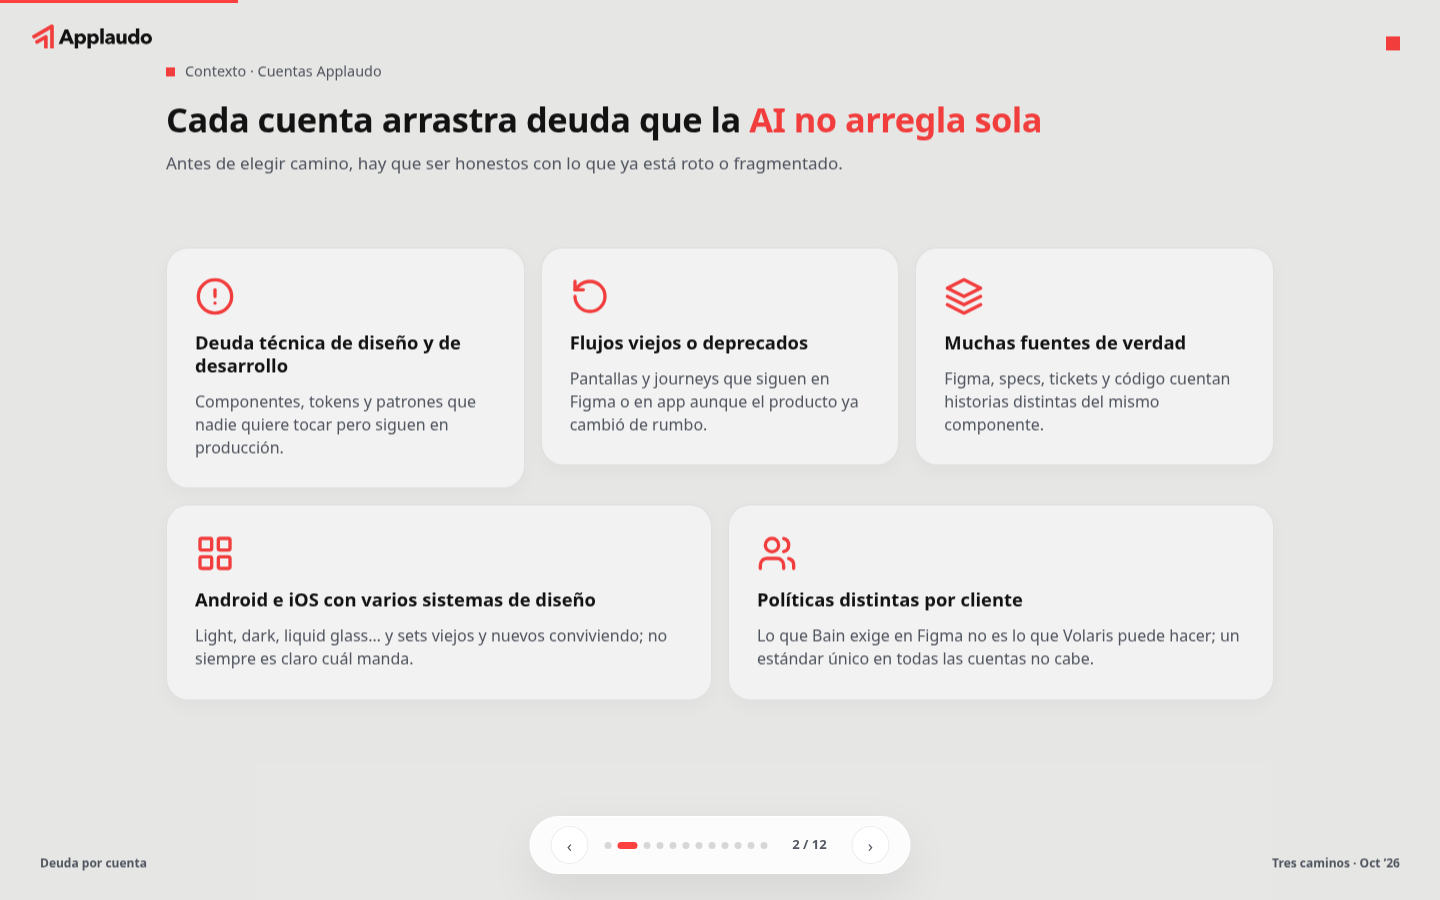
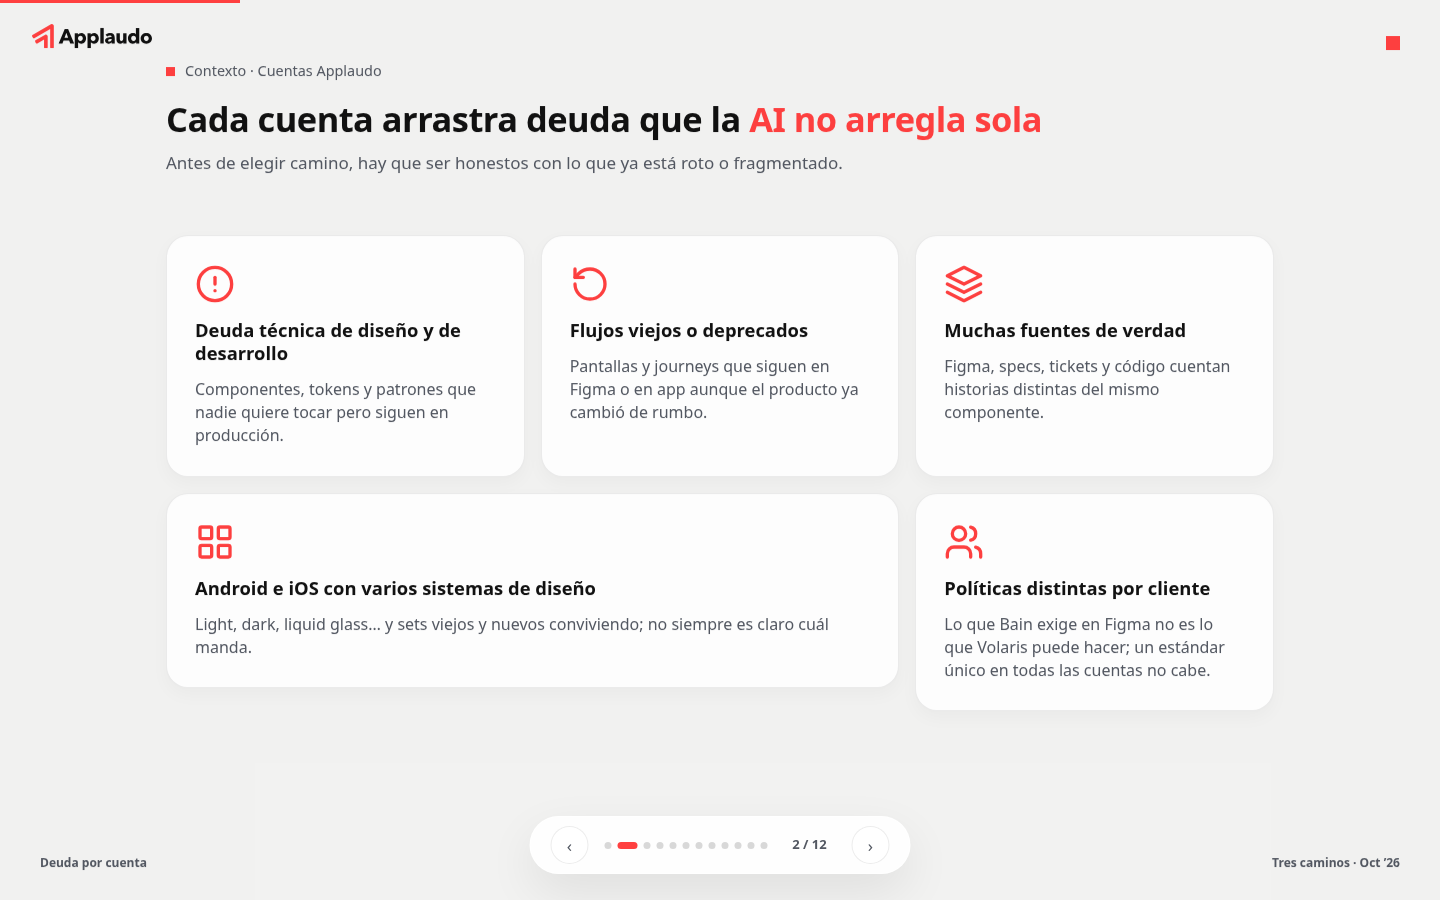
Tres-caminos: split matrix axis labels and equalize slide 2 top cards
Slide 3 uses separate end labels (Poco/Mucho, Bajo/Alto) and bold axis
titles in the board margins. Slide 2 top row uses a 3-column grid row
with stretch so the first three cards share equal width and height.

diff --git a/tres-caminos/css/tres-caminos.css b/tres-caminos/css/tres-caminos.css
@@ -28,13 +28,16 @@
   flex:1;min-height:0;display:flex;flex-direction:column;justify-content:center;gap:24px;width:100%;
 }
 .deuda-cards{
-  display:grid;grid-template-columns:repeat(6,1fr);gap:16px;width:100%;flex:none;align-items:start;
+  display:grid;grid-template-columns:repeat(3,1fr);grid-template-rows:1fr auto;
+  gap:16px;width:100%;flex:none;align-items:stretch;
 }
-.deuda-cards .problema-card{grid-column:span 2}
-.deuda-cards .problema-card:nth-child(4){grid-column:1 / span 3}
-.deuda-cards .problema-card:nth-child(5){grid-column:4 / span 3}
+.deuda-cards .problema-card:nth-child(-n+3){
+  grid-row:1;display:flex;flex-direction:column;height:100%;min-height:0;
+}
+.deuda-cards .problema-card:nth-child(4){grid-column:1 / span 2;grid-row:2}
+.deuda-cards .problema-card:nth-child(5){grid-column:3;grid-row:2}
 .deuda-cards .problema-card h4{font-size:1.15rem}
-.deuda-cards .problema-card p{font-size:1rem;line-height:1.45}
+.deuda-cards .problema-card p{font-size:1rem;line-height:1.45;flex:1}
 
 .bridge-volaris-slide .problema-stack{justify-content:center}
 
@@ -48,35 +51,47 @@
   min-height:min(420px,52vh);height:min(58vh,560px);
   display:grid;grid-template-columns:1fr 1fr;grid-template-rows:1fr 1fr;
   gap:clamp(16px,2.4vh,28px) clamp(20px,2.8vw,32px);
-  padding:clamp(28px,4vh,40px) clamp(24px,2.5vw,32px) clamp(36px,4.5vh,44px) clamp(44px,3.5vw,52px);
+  padding:clamp(28px,4vh,40px) clamp(24px,2.5vw,32px) clamp(48px,5.5vh,56px) clamp(52px,4vw,60px);
   border:1px solid var(--line);border-radius:var(--radius-item);background:#fff;
   box-shadow:0 6px 18px rgba(18,18,18,.03);overflow:visible;box-sizing:border-box;
 }
 .matrix-board::before{
-  content:'';position:absolute;left:clamp(44px,3.5vw,52px);right:clamp(24px,2.5vw,32px);
+  content:'';position:absolute;left:clamp(52px,4vw,60px);right:clamp(24px,2.5vw,32px);
   top:50%;height:1px;background:var(--line-strong);pointer-events:none;
 }
 .matrix-board::after{
-  content:'';position:absolute;top:clamp(28px,4vh,40px);bottom:clamp(36px,4.5vh,44px);
+  content:'';position:absolute;top:clamp(28px,4vh,40px);bottom:clamp(48px,5.5vh,56px);
   left:50%;width:1px;background:var(--line-strong);pointer-events:none;
 }
-.matrix-axis{
-  position:absolute;font-size:.8125rem;font-weight:600;color:var(--gray);letter-spacing:.02em;
-  pointer-events:none;z-index:1;
+.matrix-axis-y{
+  position:absolute;z-index:1;pointer-events:none;
+  left:clamp(4px,0.5vw,8px);top:clamp(28px,4vh,40px);bottom:clamp(48px,5.5vh,56px);
+  width:clamp(40px,3.2vw,48px);
+  display:grid;grid-template-rows:auto 1fr auto;align-items:center;justify-items:center;
 }
-.matrix-axis.axis-x{
-  bottom:clamp(10px,1.5vh,14px);left:clamp(44px,3.5vw,52px);right:clamp(24px,2.5vw,32px);
-  text-align:center;
+.matrix-axis-x{
+  position:absolute;z-index:1;pointer-events:none;
+  left:clamp(52px,4vw,60px);right:clamp(24px,2.5vw,32px);bottom:clamp(8px,1vh,12px);
+  display:grid;grid-template-columns:auto 1fr auto;align-items:end;column-gap:clamp(8px,1.2vw,14px);
 }
-.matrix-axis.axis-y{
-  left:clamp(6px,0.6vw,10px);top:clamp(28px,4vh,40px);bottom:clamp(36px,4.5vh,44px);
-  width:clamp(28px,2.2vw,36px);
+.axis-end{
+  font-size:.6875rem;font-weight:600;color:var(--gray);letter-spacing:.03em;line-height:1.2;
+}
+.axis-y-top{align-self:start}
+.axis-y-bottom{align-self:end}
+.axis-x-left{justify-self:start;text-align:left}
+.axis-x-right{justify-self:end;text-align:right}
+.axis-title{font-weight:700;color:var(--ink);letter-spacing:.01em;line-height:1.3}
+.axis-title-y{
   writing-mode:vertical-lr;transform:rotate(180deg);
-  display:flex;align-items:center;justify-content:center;line-height:1.35;
-  white-space:normal;text-align:center;
+  font-size:clamp(.75rem,1.05vw,.8125rem);text-align:center;padding:6px 0;
+  max-height:100%;overflow:visible;
+}
+.axis-title-x{
+  font-size:clamp(.75rem,1.05vw,.8125rem);text-align:center;justify-self:center;padding:0 4px;
 }
 .matrix-case{
-  position:relative;width:100%;max-width:none;padding:18px 20px;box-sizing:border-box;
+  position:relative;z-index:2;width:100%;max-width:none;padding:18px 20px;box-sizing:border-box;
   background:#fff;border:1px solid var(--line);border-radius:var(--radius-item);
   box-shadow:0 8px 24px rgba(18,18,18,.06);overflow:visible;
 }
@@ -123,7 +138,6 @@
   .matrix-case{padding:14px 16px}
   .matrix-case h4{font-size:.9375rem}
   .matrix-case p{font-size:.8125rem;line-height:1.4}
-  .matrix-axis.axis-y{font-size:.75rem}
   .curva-col{padding:16px 18px}
   .curva-col li{font-size:.875rem}
   .curva-columns{gap:14px}

diff --git a/tres-caminos/index.html b/tres-caminos/index.html
@@ -84,8 +84,16 @@
     <div class="slide-body">
     <div class="matrix-stack">
       <div class="matrix-board" role="img" aria-label="Matriz: control sobre herramientas e implementación versus histórico en Figma">
-        <span class="matrix-axis axis-x">Control sobre herramientas e implementación · bajo → alto</span>
-        <span class="matrix-axis axis-y">Histórico en Figma · poco → mucho</span>
+        <div class="matrix-axis-y" aria-hidden="true">
+          <span class="axis-end axis-y-top">Mucho</span>
+          <span class="axis-title axis-title-y">Histórico en Figma</span>
+          <span class="axis-end axis-y-bottom">Poco</span>
+        </div>
+        <div class="matrix-axis-x" aria-hidden="true">
+          <span class="axis-end axis-x-left">Bajo</span>
+          <span class="axis-title axis-title-x">Control sobre herramientas e implementación</span>
+          <span class="axis-end axis-x-right">Alto</span>
+        </div>
         <div class="matrix-case case-volaris">
           <p class="case-tag">Volaris</p>
           <h4>Mucho histórico, poco control</h4>
